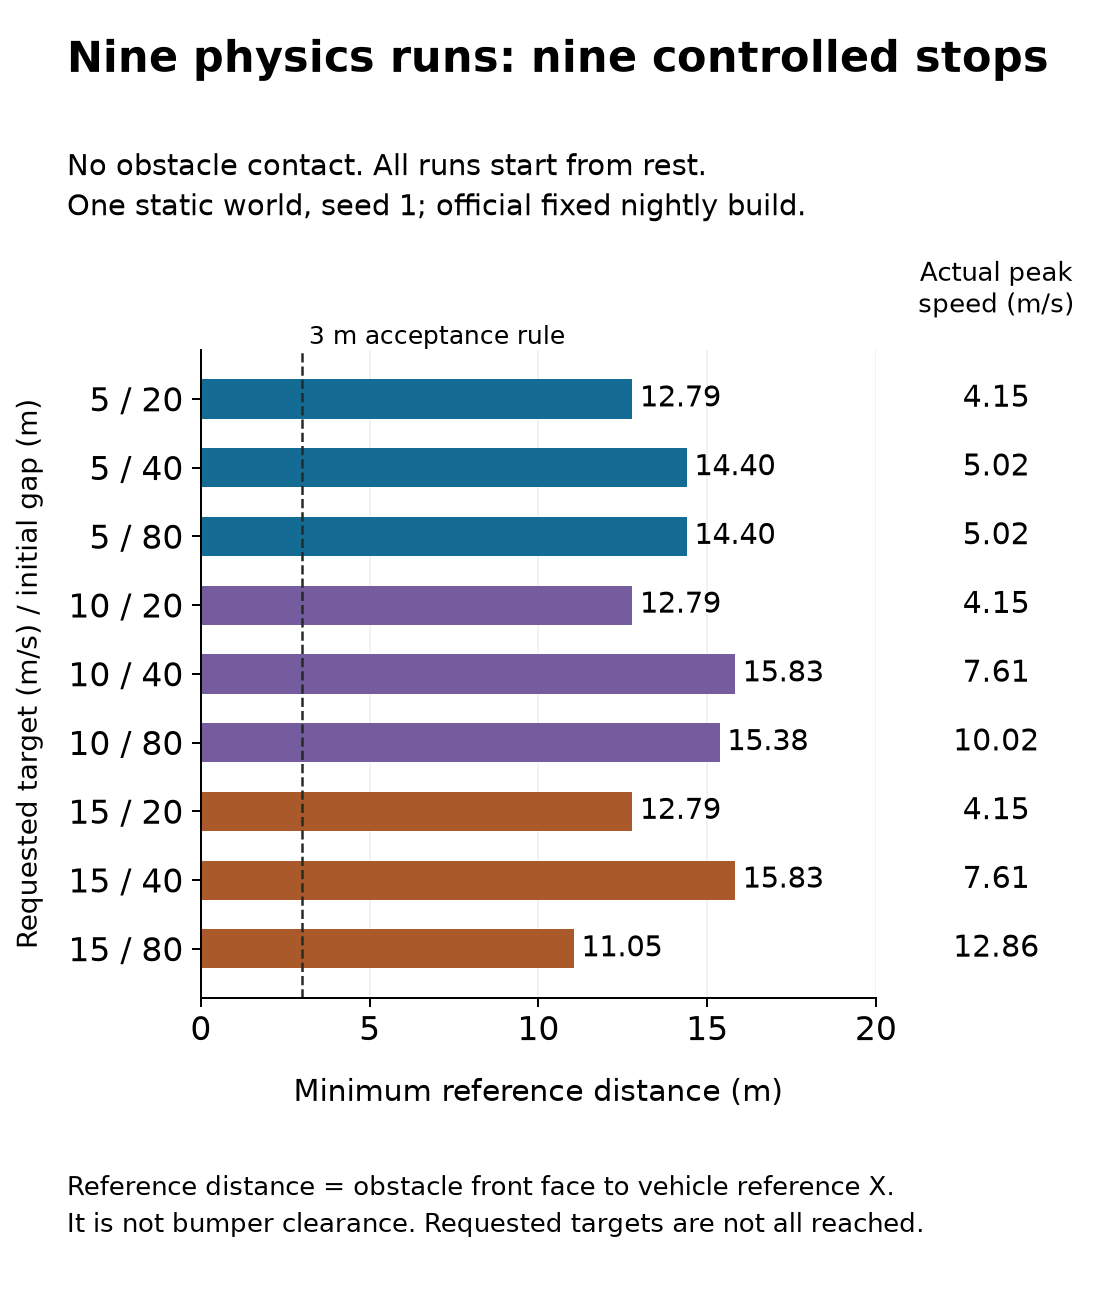
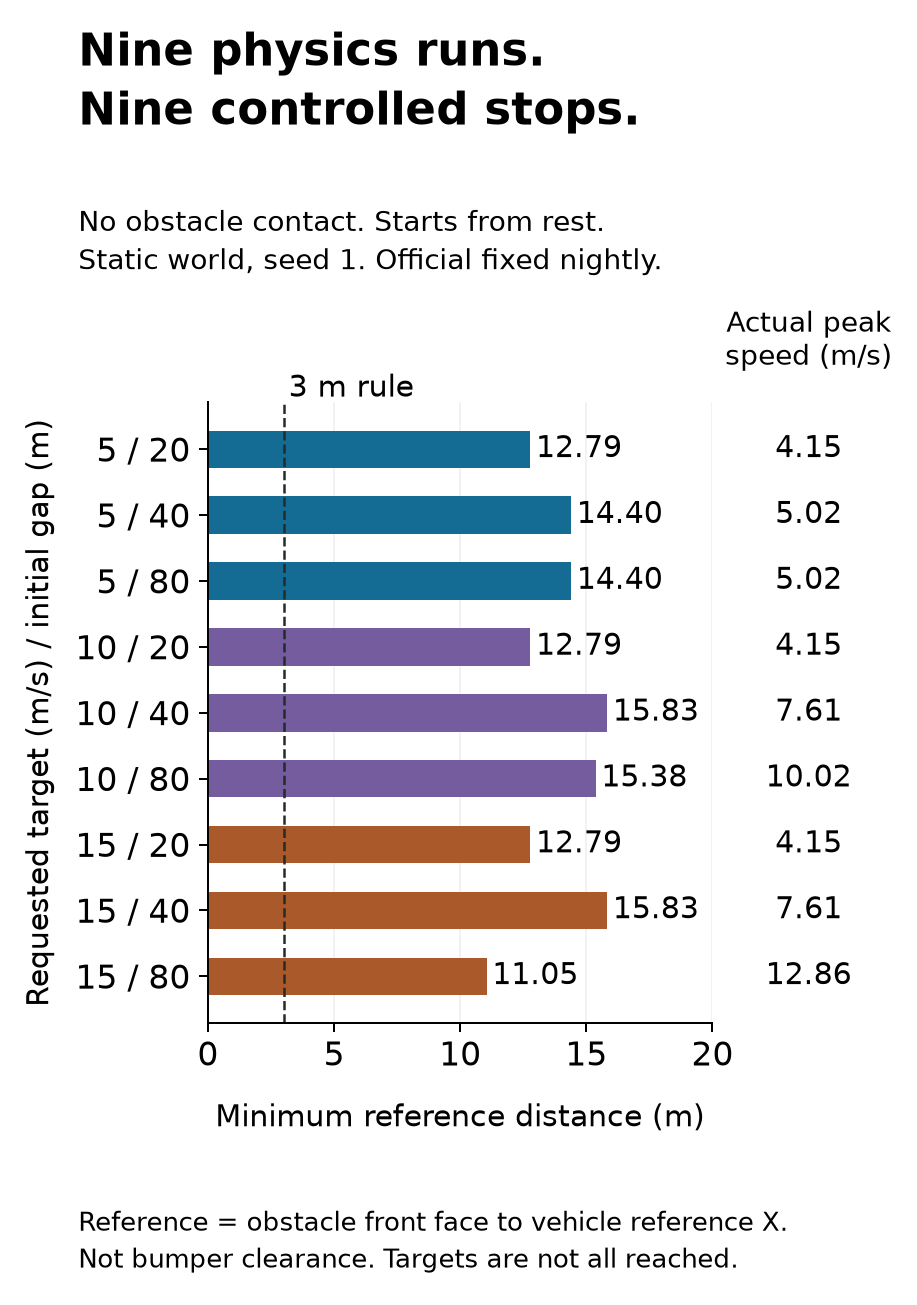
Keep physics chart labels readable in narrow layouts

diff --git a/scripts/plot_webots_physics.py b/scripts/plot_webots_physics.py
@@ -9,30 +9,30 @@ ROOT = Path(__file__).resolve().parents[1] / 'results/webots-physics-v1'
 cases = json.loads((ROOT / 'matrix-after.json').read_text())['cases']
 plt.rcParams.update({'font.family': 'DejaVu Sans', 'font.size': 13,
                      'axes.spines.top': False, 'axes.spines.right': False})
-fig, (ax, values) = plt.subplots(1, 2, figsize=(6.2, 7.2),
+fig, (ax, values) = plt.subplots(1, 2, figsize=(4.8, 7.5),
                                gridspec_kw={'width_ratios': [4.3, 1.1]}, sharey=True)
-fig.subplots_adjust(left=.18, right=.97, top=.73, bottom=.23, wspace=.08)
-fig.text(.06, .97, 'Nine physics runs: nine controlled stops', fontsize=17, weight='bold', va='top')
-fig.text(.06, .89, 'No obstacle contact. All runs start from rest.\nOne static world, seed 1; official fixed nightly build.', fontsize=11.5, linespacing=1.5, va='top')
+fig.subplots_adjust(left=.21, right=.98, top=.69, bottom=.23, wspace=.10)
+fig.text(.06, .97, 'Nine physics runs.\nNine controlled stops.', fontsize=18, weight='bold', va='top', linespacing=1.3)
+fig.text(.06, .84, 'No obstacle contact. Starts from rest.\nStatic world, seed 1. Official fixed nightly.', fontsize=11, linespacing=1.5, va='top')
 for index, case in enumerate(cases):
     distance = case['summary']['minimum_true_distance_m']
     color = {5.: '#146c94', 10.: '#745c9e', 15.: '#aa592b'}[case['speed_mps']]
     ax.barh(index, distance, height=.57, color=color)
-    ax.text(distance+.22, index, f'{distance:.2f}', va='center', fontsize=11.5)
+    ax.text(distance+.22, index, f'{distance:.2f}', va='center', fontsize=12)
     values.text(.5, index, f"{case['summary']['maximum_speed_mps']:.2f}", ha='center', va='center', fontsize=12)
 ax.set_yticks(range(9), [f"{c['speed_mps']:g} / {c['initial_reference_clearance_m']:g}" for c in cases])
 ax.invert_yaxis()
 ax.set_xlim(0, 20)
 ax.set_xticks([0, 5, 10, 15, 20])
 ax.set_xlabel('Minimum reference distance (m)', labelpad=12, fontsize=12)
-ax.set_ylabel('Requested target (m/s) / initial gap (m)', labelpad=10, fontsize=11)
+ax.set_ylabel('Requested target (m/s) / initial gap (m)', labelpad=8, fontsize=12)
 ax.axvline(3, color='#242c27', linestyle='--', linewidth=1)
-ax.text(3.2, -.8, '3 m acceptance rule', fontsize=10)
+ax.text(3.2, -.8, '3 m rule', fontsize=12)
 ax.grid(axis='x', alpha=.16)
 ax.set_axisbelow(True)
 values.set_xlim(0, 1)
 values.set_axis_off()
-values.set_title('Actual peak\nspeed (m/s)', fontsize=10.5, pad=15)
-fig.text(.06, .04, 'Reference distance = obstacle front face to vehicle reference X.\nIt is not bumper clearance. Requested targets are not all reached.', fontsize=10.5, linespacing=1.5, va='bottom')
-fig.savefig(ROOT / 'stopping-distances.png', dpi=180)
+values.set_title('Actual peak\nspeed (m/s)', fontsize=11, pad=15)
+fig.text(.06, .04, 'Reference = obstacle front face to vehicle reference X.\nNot bumper clearance. Targets are not all reached.', fontsize=10.5, linespacing=1.5, va='bottom')
+fig.savefig(ROOT / 'stopping-distances.png', dpi=180, bbox_inches='tight', pad_inches=.14)
 plt.close(fig)
